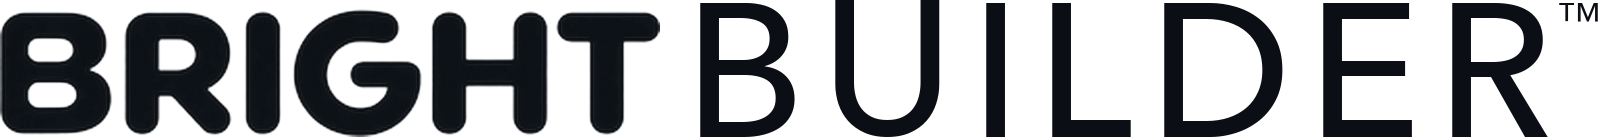
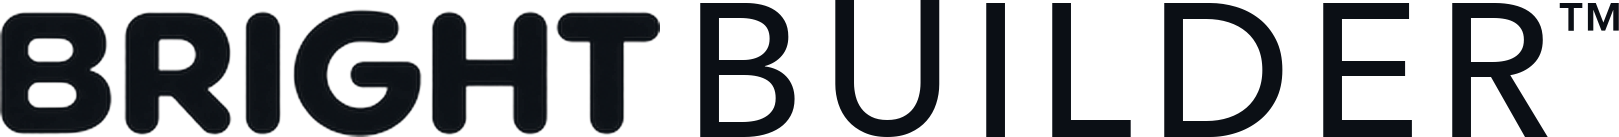
BrightBuilder intro: bigger TM, no swipe hint (Let's start button begins)

Changed region(s): [[0.0613, 0.0, 1.0, 1.0], [0.0613, 0.9635, 0.092, 0.9927], [0.0613, 0.0876, 0.092, 0.1168]]

diff --git a/mobile-app/App.tsx b/mobile-app/App.tsx
@@ -2718,8 +2718,7 @@ function AppInner({ onSignedOut }: { onSignedOut: () => void }) {
         <Image source={require('./assets/brightbuilder.png')} resizeMode="contain" style={s.bbIntroLogo} />
         <Text style={s.bbIntroTitle}>Build your website in seven simple steps</Text>
         <View style={s.bbIntroTime}><Ionicons name="time-outline" size={15} color={C.primary} /><Text style={s.bbIntroHintText}>Under 10 minutes</Text></View>
-        <Text style={s.bbIntroText}>Fill in each card and swipe left to save and move on. Skip anything you like and change it later.</Text>
-        <View style={s.bbIntroHint}><Ionicons name="arrow-back" size={16} color={C.primary} /><Text style={s.bbIntroHintText}>Swipe left to go to the next card</Text></View>
+        <Text style={s.bbIntroText}>Fill in each card as you go. Skip anything you like and change it later.</Text>
         <Pressable onPress={closeBuilderIntro} style={({ pressed }) => [s.authSubmit, { alignSelf: 'stretch' }, pressed && s.pressed]}><Text style={s.authSubmitText}>Let’s start</Text></Pressable>
       </View>
     </Modal>
@@ -2972,11 +2971,10 @@ const s = StyleSheet.create({
   billingSave: { fontFamily: FONT, fontSize: 11, fontWeight: '800', color: C.success },
   planModalTotal: { fontFamily: FONT, fontSize: 13, fontWeight: '600', color: C.inkSoft, marginTop: 6, textAlign: 'center' },
   bbIntro: { flex: 1, backgroundColor: C.card, alignItems: 'center', justifyContent: 'center', paddingHorizontal: 30, gap: 18 },
-bbIntroLogo: { width: SCREEN_WIDTH - 90, height: (SCREEN_WIDTH - 90) * 137 / 1598, marginBottom: 18 },
+bbIntroLogo: { width: SCREEN_WIDTH - 90, height: (SCREEN_WIDTH - 90) * 137 / 1619, marginBottom: 18 },
 bbIntroTitle: { fontFamily: FONT, fontSize: 26, fontWeight: '900', color: C.ink, textAlign: 'center' },
 bbIntroTime: { flexDirection: 'row', alignItems: 'center', gap: 6, paddingHorizontal: 14, paddingVertical: 7, borderRadius: 999, backgroundColor: C.primarySoft },
-bbIntroText: { fontFamily: FONT, fontSize: 16, lineHeight: 23, color: C.inkSoft, textAlign: 'center' },
-bbIntroHint: { flexDirection: 'row', alignItems: 'center', gap: 8, paddingHorizontal: 14, paddingVertical: 9, borderRadius: 999, backgroundColor: C.primarySoft, marginBottom: 14 },
+bbIntroText: { fontFamily: FONT, fontSize: 16, lineHeight: 23, color: C.inkSoft, textAlign: 'center', marginBottom: 14 },
 bbIntroHintText: { fontFamily: FONT, fontSize: 14, fontWeight: '700', color: C.primary },
 savedPill: { position: 'absolute', top: SAFE_TOP + 86, alignSelf: 'center', zIndex: 200, flexDirection: 'row', alignItems: 'center', gap: 6, paddingHorizontal: 12, paddingVertical: 6, borderRadius: 999, backgroundColor: 'rgba(28,40,50,.82)' },
   savedPillText: { fontFamily: FONT, fontSize: 12, fontWeight: '700', color: '#fff' },
